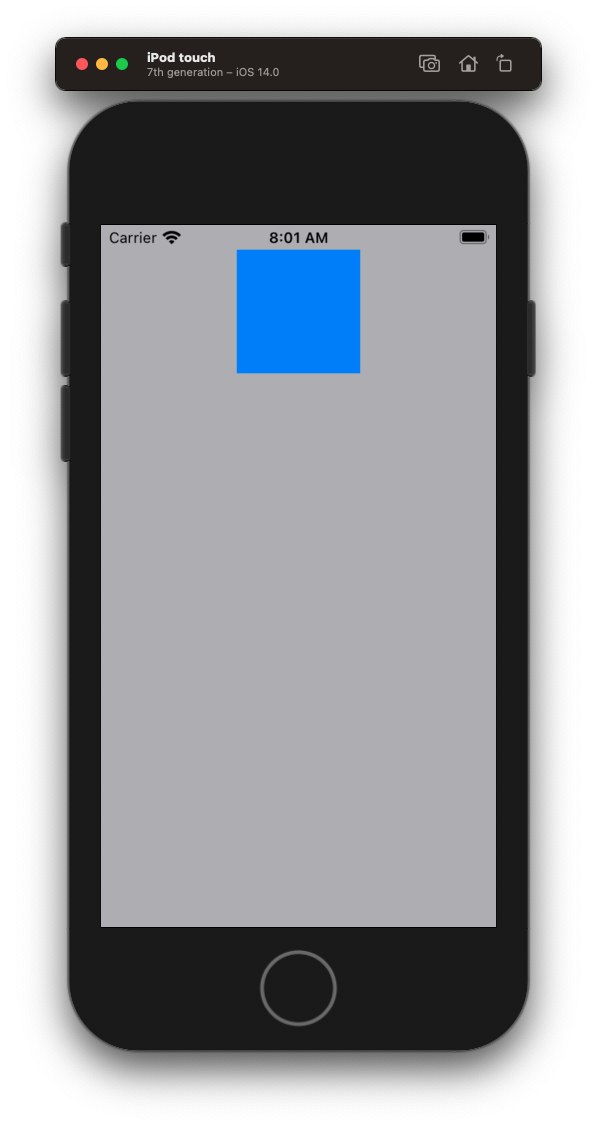
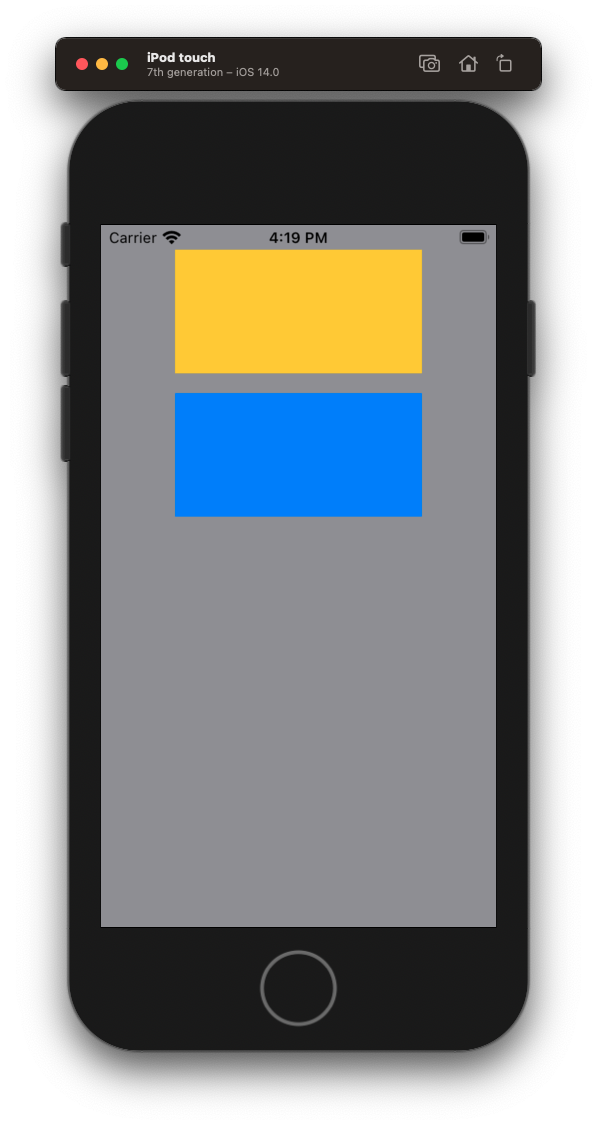
cleanup

diff --git a/basics/Nibs/README.md b/basics/Nibs/README.md
@@ -16,49 +16,20 @@ Simplest thing you can do is create a nib and then associated it with a View Con
 
 ![](images/d.png)
 
-## Loading a Nib into a Nib
 
-Two ways you can go about this:
+## Making a Nib IBDesignable
 
-1. Load the nib manually.
-2. Make it `IBDesignable`.
-
-## Nib loading manually
-
-When you want to compose nibs into other nibs, you need to load them manually.
-
-Create a new nib.
-
-![](images/8.png)
-
-Create it's associated view (with the same name).
-
-![](images/9.png)
-
-Associated the view with the nib.
-
-![](images/10.png)
-
-Reference the nib from the parent nib view loading it via the `Bundle` and layout out with Auto Layout.
-
-![](images/11.png)
-
-![](images/11a.png)
-
-## Nib loading IBDesignable
-
-To style and load a nib like any other iOS control:
-
+You can make a Nib appear in Interface Builder (IB) with designable attributes by doing the following.
 Create your new nib
 
-- Create nib
-- Create nib view
-- Associate nib with view
+- Create nib (i.e. `RedView.xib`).
+- Create nib view (i.e. `RedView.swift`).
+- Associate nib with view.
 
-Add it to your parent nib as a view
+Then add it to your parent nib as a view by:
 
-- Add a plain `View` control to the parent
-- Associate the plan `View` to your newly create nib view
+- Adding a plain `View` control to the parent
+- Associate the plan `View` to your newly create nib view 
 
 ### Create your new nib
 
@@ -69,6 +40,26 @@ Create a plain old nib.
 Create the view backing the nib. Make it `IBDesignable` and give it an intrinsic content size to simplify Auto Layout constraints.
 
 ![](images/bb.png)
+
+```swift
+import UIKit
+
+@IBDesignable
+class RedView: UIView {
+    
+    @IBInspectable var myColor: UIColor = .systemRed
+    
+    override func awakeFromNib() {
+        super.awakeFromNib()
+        backgroundColor = myColor
+    }
+    
+    override var intrinsicContentSize: CGSize {
+        return CGSize(width: 100, height: 100)
+    }
+}
+```
+
 
 Associate the view with the nib.
 
@@ -92,9 +83,18 @@ This will automatically detect that it is `@IBDesignable`, use it's intrinsic co
 
 ![](images/ff.png)
 
-## @IBInspectable
 
-Whatever you set in Interface Builder overrides what you set in code. So when we start our app with my color set to default, the view uses the value set it code and colors the box red.
+## How to load a nib programmatically
+
+When you want to compose nibs into other nibs, you need to load them manually. Going through the same steps we went through before to create a `RedView`, let's create a `InnerView` and add it programmatically to the `RedView`.
+
+Create a `InnerView.xib` and hook it up to it's `InnerView.swift`.
+
+![](images/gg.png)
+
+Then modify `RedView.swift` to load the `InnerView.xib` manually and lay it out using Auto Layout.
+
+**RedView.swift**
 
 ```swift
 import UIKit
@@ -104,9 +104,23 @@ class RedView: UIView {
     
     @IBInspectable var myColor: UIColor = .systemRed
     
+    var innerView: InnerView!
+    
     override func awakeFromNib() {
         super.awakeFromNib()
         backgroundColor = myColor
+        
+        innerView = Bundle(for: InnerView.self).loadNibNamed("\(InnerView.self)", owner: self)![0] as? InnerView
+        
+        translatesAutoresizingMaskIntoConstraints = false
+        innerView.translatesAutoresizingMaskIntoConstraints = false
+        
+        addSubview(innerView)
+        
+        NSLayoutConstraint.activate([
+            innerView.widthAnchor.constraint(equalTo: widthAnchor),
+            innerView.topAnchor.constraint(equalToSystemSpacingBelow: bottomAnchor, multiplier: 2),
+        ])
     }
     
     override var intrinsicContentSize: CGSize {
@@ -115,9 +129,7 @@ class RedView: UIView {
 }
 ```
 
-But when we set the color in IB, it overrides this and uses the IB value.
-
-![](images/gg.png)
+Now we have a nib within a nib loaded and laid out programmatically.
 
 ![](images/hh.png)
 
@@ -135,11 +147,6 @@ File's Owner
 - it is the controller for the nib and it receives all the events
 - typically you use outlets in the File's Owner to reference objects in the nib
 
-References
-
-- outlets to top level objects can be strong
-- while outlets to subviews weak
-
 Each View Controllers Manages its Own Nib File
 
 - UIViewController support the automatically loading of their own associated nib file
@@ -149,7 +156,6 @@ Loading Nib Files Programmatically
 - NSBundle supports loading of nib files
 - loadNibNamed:owner:options: instance method
 
-> Important: You are responsible for releasing the top-level objects of any nib files you load when you are finished with those objects. Failure to do so is a cause of memory leaks in many applications. After releasing the top-level objects, it is a good idea to clear any outlets pointing to objects in the nib file by setting them to nil. You should clear outlets associated with all of the nib file’s objects, not just the top-level objects.
 
 ### Links that help
 * [Apple Docs Nib Files](https://developer.apple.com/library/archive/documentation/Cocoa/Conceptual/LoadingResources/CocoaNibs/CocoaNibs.html)
